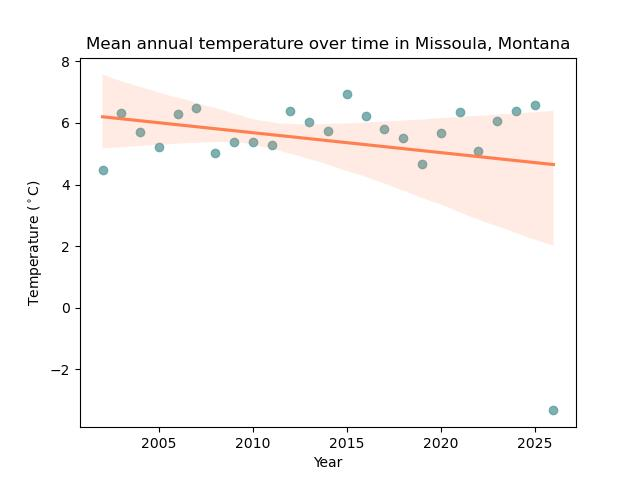
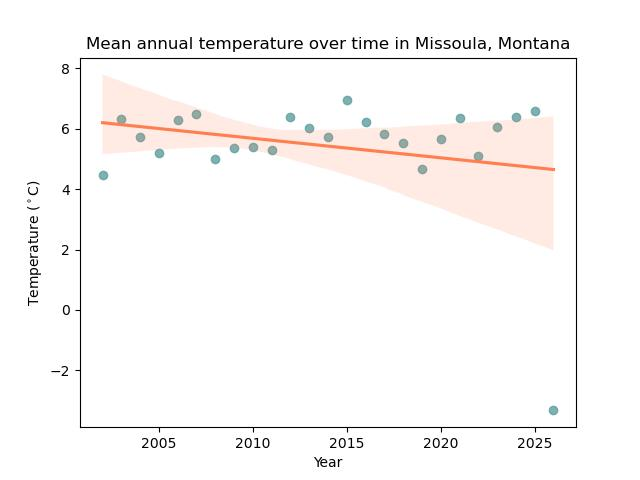
fixing plot display issues

diff --git a/post_climate_missoula2-minmax.html b/post_climate_missoula2-minmax.html
@@ -25,10 +25,10 @@
   Bokeh.set_log_level("info");
 </script>  </head>
   <body>
-    <div id="f44f10b3-b397-41cf-af64-0dbe66c8c64e" data-root-id="p1096" style="display: contents;"></div>
+    <div id="f7c89e3b-f569-4482-b13b-494f477b4deb" data-root-id="p1590" style="display: contents;"></div>
   
-    <script type="application/json" id="e60715dd-9203-4b65-8d42-c9a89e239f22">
[1 lines of base64/hex data omitted]
+    <script type="application/json" id="d459c91a-ba23-400d-8f38-6d6d33ff05fc">
[1 lines of base64/hex data omitted]
     </script>
     <script type="text/javascript">
       (function() {
@@ -36,8 +36,8 @@
           Bokeh.safely(function() {
             (function(root) {
               function embed_document(root) {
-              const docs_json = document.getElementById('e60715dd-9203-4b65-8d42-c9a89e239f22').textContent;
-              const render_items = [{"docid":"8b58e9ff-6967-4df1-99e5-87fda4f7ddc2","roots":{"p1096":"f44f10b3-b397-41cf-af64-0dbe66c8c64e"},"root_ids":["p1096"]}];
+              const docs_json = document.getElementById('d459c91a-ba23-400d-8f38-6d6d33ff05fc').textContent;
+              const render_items = [{"docid":"d16b8b09-23fd-49ba-9656-4143ba6cc6a3","roots":{"p1590":"f7c89e3b-f569-4482-b13b-494f477b4deb"},"root_ids":["p1590"]}];
               root.Bokeh.embed.embed_items(docs_json, render_items);
               }
               if (root.Bokeh !== undefined) {
